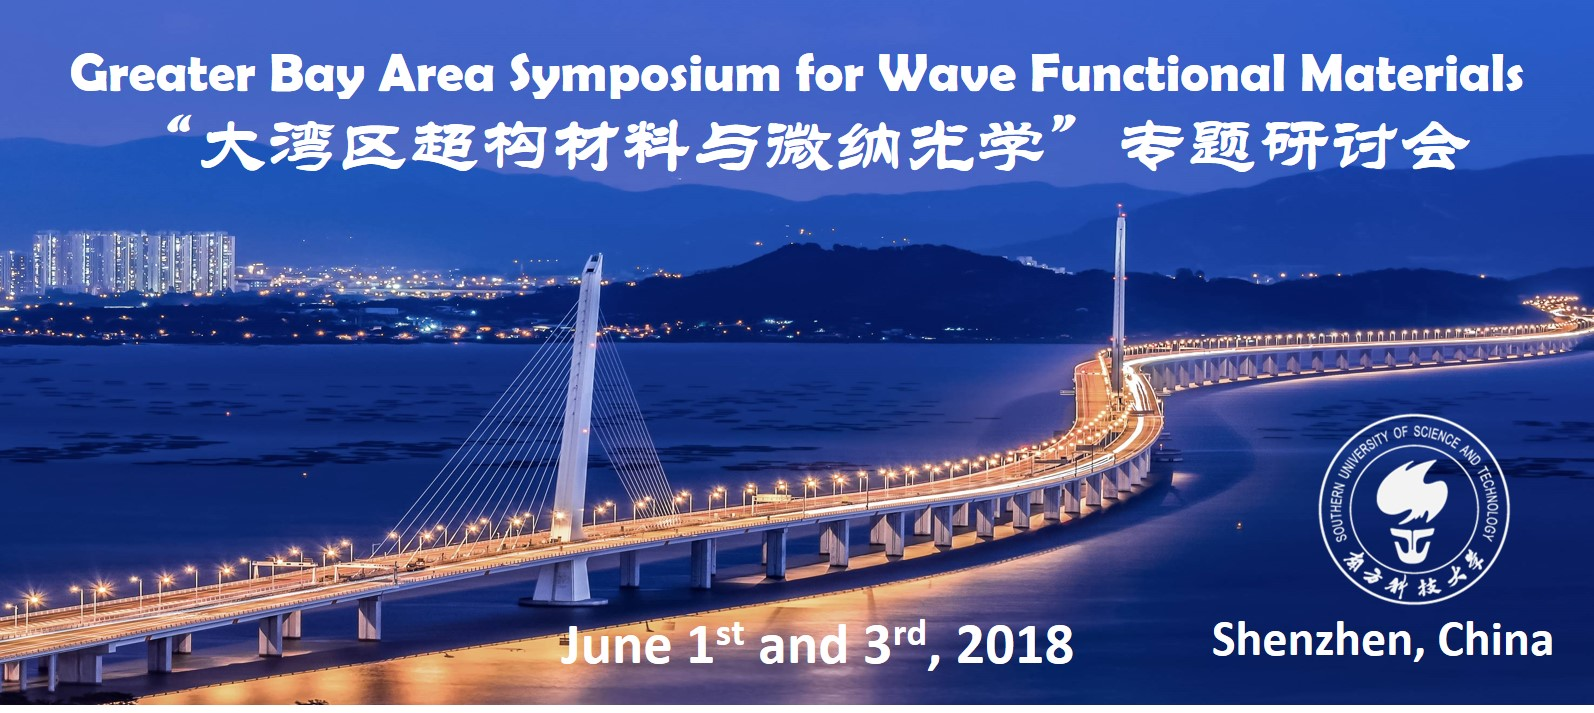
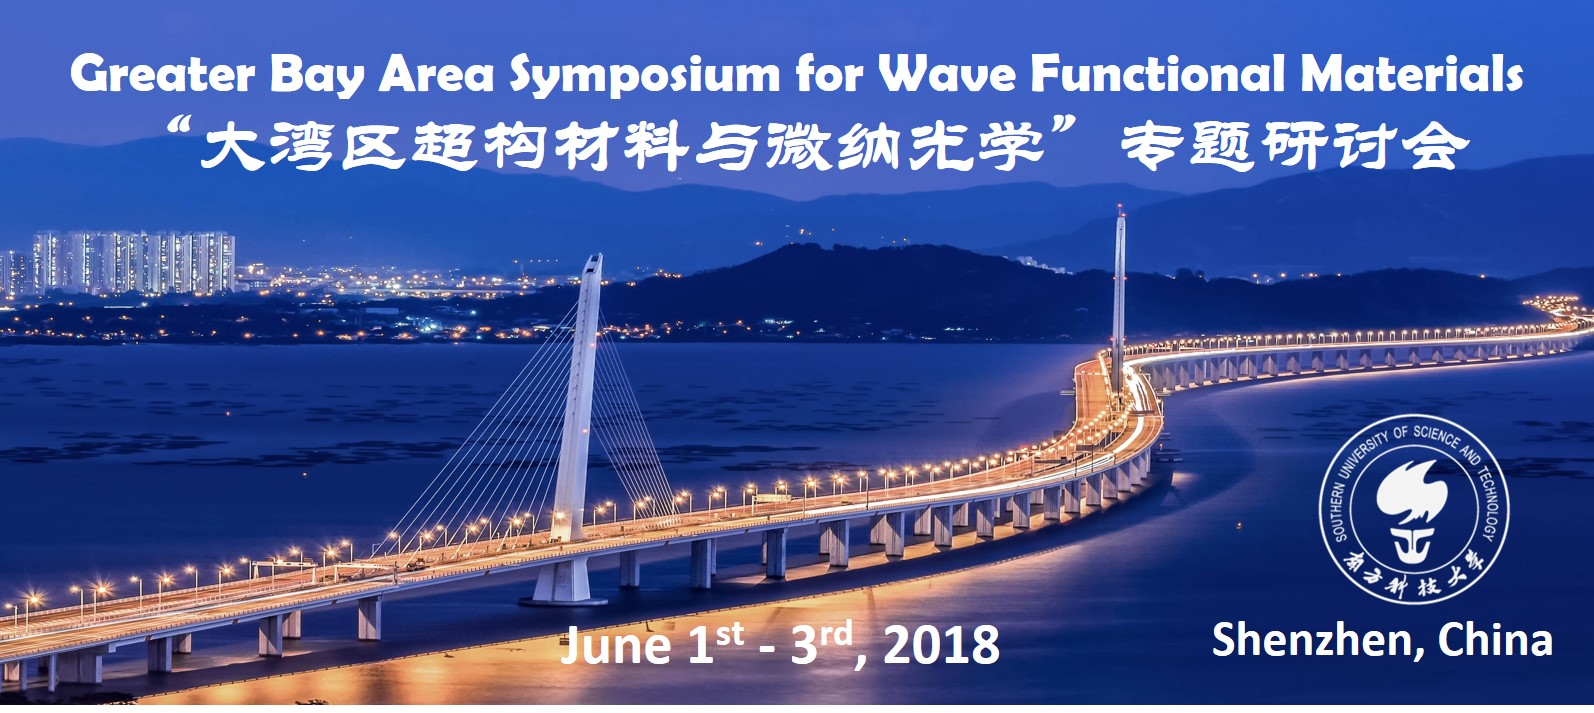
change date

Changed region(s): [[0.4611, 0.864, 0.6763, 0.9565]]

diff --git a/Location_the Greater Bay Area Symposium for Wave Functional Materials.html b/Location_the Greater Bay Area Symposium for Wave Functional Materials.html
@@ -84,7 +84,7 @@
    <p style=" font-size:20px; text-align: left; padding: 0em 0.7em ; padding-right:4em; line-height:150%"><strong>the Greater Bay Area Symposium for Wave Functional Materials (“大湾区超构材料与微纳光学”专题研讨会)</strong></p>                   
     
     <p style="font-size:18px; text-align: left;  padding: 0em 0.7em ; padding-right:4em;" ><strong>Southern University of Science and Technology, Shen Zhen, China </strong></p>
-	  <p style="font-size:18px; text-align: left;  padding: 0em 0.7em ; padding-right:4em;"><strong>June 1st and 3rd, 2018</strong></p>
+	  <p style="font-size:18px; text-align: left;  padding: 0em 0.7em ; padding-right:4em;"><strong>June 1st to 3rd, 2018</strong></p>
 <br>
   <p style="font-size:20px; text-align: left;  padding: 0em 0.7em ; padding-right:4em;" ><strong>The Symposium will be held  at : </strong></p>
 	  <p style="font-size:18px; text-align: left;  padding: 0em 0.7em ; padding-right:4em;">First Auditorium of the Library, Southern University of Science and Technology （南方科技大学图书馆第一报告厅）</p>

diff --git a/index.html b/index.html
@@ -85,7 +85,7 @@
 	<p style=" font-size:20px; text-align: left; padding: 0em 0.7em ; padding-right:4em; line-height:150%"><strong>the Greater Bay Area Symposium for Wave Functional Materials (“大湾区超构材料与微纳光学”专题研讨会)</strong></p>                   
     
      <p style="font-size:18px; text-align: left;  padding: 0em 0.7em ; padding-right:4em;" ><strong>Southern University of Science and Technology, Shen Zhen, China </strong></p>
-	  <p style="font-size:18px; text-align: left;  padding: 0em 0.7em ; padding-right:4em;"><strong>June 1st and 3rd, 2018</strong></p>
+	  <p style="font-size:18px; text-align: left;  padding: 0em 0.7em ; padding-right:4em;"><strong>June 1st to 3rd, 2018</strong></p>
 
 	<p style="font-size:18px; text-align: left; padding:  0.7em ; padding-right:4em; " ><strong>Confirmed Speakers (in alphabetical order of last name):</strong></p>
     

diff --git a/Program_the Greater Bay Area Symposium for Wave Functional Materials.html b/Program_the Greater Bay Area Symposium for Wave Functional Materials.html
@@ -86,7 +86,7 @@
 	<p style=" font-size:20px; text-align: left; padding: 0em 0.7em ; padding-right:4em; line-height:150%"><strong>the Greater Bay Area Symposium for Wave Functional Materials (“大湾区超构材料与微纳光学”专题研讨会)</strong></p>                   
     
     <p style="font-size:18px; text-align: left;  padding: 0em 0.7em ; padding-right:4em;" ><strong>Southern University of Science and Technology, Shen Zhen, China </strong></p>
-	  <p style="font-size:18px; text-align: left;  padding: 0em 0.7em ; padding-right:4em;"><strong>June 1st and 3rd, 2018</strong></p>
+	  <p style="font-size:18px; text-align: left;  padding: 0em 0.7em ; padding-right:4em;"><strong>June 1st to 3rd, 2018</strong></p>
 <div> 
   <p>&nbsp;</p>
  <p style="text-align: center;"><img src="pictures/Schedule.png" width="400" height="44" /></p> 
